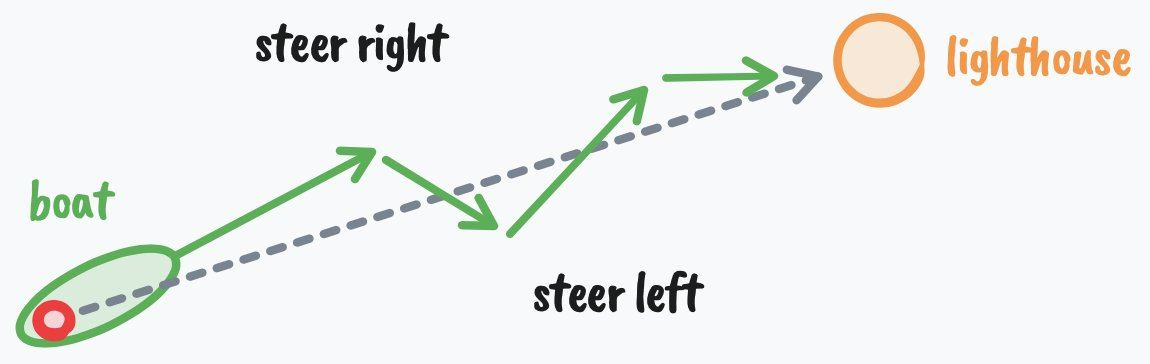
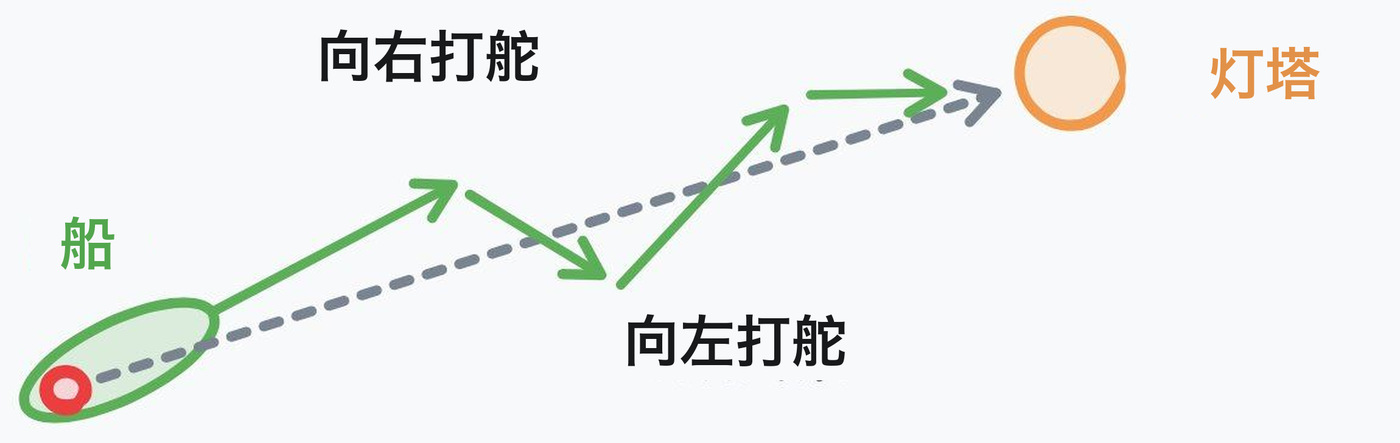
配图汉化第二批：10 张纯排版图重制为中文版（金字塔/四象限/流程图/折线图/蛛网/能力条/帖文/衬线对比图），同步 alt 文本与缓存版本

diff --git a/sw.js b/sw.js
@@ -1,4 +1,4 @@
-const V='dk-book-20261121-v3';const F=["notes-core.js", "notes-ui.js", "notes.css", "audio-manifest.json", "audio.js", "a/01.html", "a/02.html", "a/03.html", "a/04.html", "a/05.html", "a/06.html", "a/07.html", "a/08.html", "a/09.html", "a/10.html", "a/11.html", "a/12.html", "a/13.html", "a/14.html", "a/15.html", "a/16.html", "a/17.html", "a/18.html", "a/19.html", "a/20.html", "a/21.html", "a/22.html", "a/23.html", "a/n01.html", "a/n02.html", "a/n03.html", "a/n12.html", "a/n11.html", "a/n10.html", "a/n09.html", "a/n08.html", "a/n07.html", "a/n06.html", "a/n05.html", "a/n04.html", "app.js", "reading-layout.js", "fonts/NotoSerifSC-Bold.woff2", "fonts/NotoSerifSC-Regular.woff2", "fonts/fonts.css", "glossary.html", "img/01_1.jpg", "img/01_2.jpg", "img/01_3.jpg", "img/01_5.jpg", "img/01_cover.jpg", "img/02_1.jpg", "img/02_2.jpg", "img/02_3.jpg", "img/02_4.jpg", "img/02_cover.jpg", "img/03_1.jpg", "img/03_2.jpg", "img/03_3.jpg", "img/03_4.jpg", "img/03_cover.jpg", "img/04_cover.jpg", "img/05_1.jpg", "img/05_2.jpg", "img/05_3.jpg", "img/05_cover.jpg", "img/06_1.jpg", "img/06_2.jpg", "img/06_cover.jpg", "img/07_1.jpg", "img/07_2.jpg", "img/07_3.jpg", "img/07_cover.jpg", "img/08_1.jpg", "img/08_2.jpg", "img/08_3.jpg", "img/08_4.jpg", "img/08_5.jpg", "img/08_6.jpg", "img/08_7.jpg", "img/08_cover.jpg", "img/09_cover.jpg", "img/10_cover.jpg", "img/11_cover.jpg", "img/12_1.jpg", "img/12_2.jpg", "img/12_3.jpg", "img/12_4.jpg", "img/12_5.jpg", "img/12_cover.jpg", "img/13_1.jpg", "img/13_2.jpg", "img/13_3.jpg", "img/13_4.jpg", "img/13_cover.jpg", "img/14_1.jpg", "img/14_2.jpg", "img/14_3.jpg", "img/14_cover.jpg", "img/15_1.jpg", "img/15_2.jpg", "img/15_3.jpg", "img/15_4.jpg", "img/15_cover.jpg", "img/16_1.jpg", "img/16_cover.jpg", "img/17_cover.jpg", "img/18_1.jpg", "img/18_2.jpg", "img/18_cover.jpg", "img/19_cover.jpg", "img/20_1.jpg", "img/20_2.jpg", "img/20_cover.jpg", "img/21_1.jpg", "img/21_2.jpg", "img/21_3.jpg", "img/21_cover.jpg", "img/22_cover.jpg", "img/23_1.jpg", "img/23_2.jpg", "img/23_3.jpg", "img/23_cover.jpg", "img/n01_cover.jpg", "img/n02_cover.jpg", "img/n03_cover.jpg", "img/n12_cover.jpg", "img/n11_cover.jpg", "img/n10_cover.jpg", "img/n09_cover.jpg", "img/n08_cover.jpg", "img/n07_cover.jpg", "img/n06_cover.jpg", "img/n05_cover.jpg", "img/n04_cover.jpg", "index.html", "manifest.json", "meta.js", "naval-posts.html", "naval-posts-2025.html", "notes.html", "posts.html", "style.css"];
+const V='dk-book-20261121-v4';const F=["notes-core.js", "notes-ui.js", "notes.css", "audio-manifest.json", "audio.js", "a/01.html", "a/02.html", "a/03.html", "a/04.html", "a/05.html", "a/06.html", "a/07.html", "a/08.html", "a/09.html", "a/10.html", "a/11.html", "a/12.html", "a/13.html", "a/14.html", "a/15.html", "a/16.html", "a/17.html", "a/18.html", "a/19.html", "a/20.html", "a/21.html", "a/22.html", "a/23.html", "a/n01.html", "a/n02.html", "a/n03.html", "a/n12.html", "a/n11.html", "a/n10.html", "a/n09.html", "a/n08.html", "a/n07.html", "a/n06.html", "a/n05.html", "a/n04.html", "app.js", "reading-layout.js", "fonts/NotoSerifSC-Bold.woff2", "fonts/NotoSerifSC-Regular.woff2", "fonts/fonts.css", "glossary.html", "img/01_1.jpg", "img/01_2.jpg", "img/01_3.jpg", "img/01_5.jpg", "img/01_cover.jpg", "img/02_1.jpg", "img/02_2.jpg", "img/02_3.jpg", "img/02_4.jpg", "img/02_cover.jpg", "img/03_1.jpg", "img/03_2.jpg", "img/03_3.jpg", "img/03_4.jpg", "img/03_cover.jpg", "img/04_cover.jpg", "img/05_1.jpg", "img/05_2.jpg", "img/05_3.jpg", "img/05_cover.jpg", "img/06_1.jpg", "img/06_2.jpg", "img/06_cover.jpg", "img/07_1.jpg", "img/07_2.jpg", "img/07_3.jpg", "img/07_cover.jpg", "img/08_1.jpg", "img/08_2.jpg", "img/08_3.jpg", "img/08_4.jpg", "img/08_5.jpg", "img/08_6.jpg", "img/08_7.jpg", "img/08_cover.jpg", "img/09_cover.jpg", "img/10_cover.jpg", "img/11_cover.jpg", "img/12_1.jpg", "img/12_2.jpg", "img/12_3.jpg", "img/12_4.jpg", "img/12_5.jpg", "img/12_cover.jpg", "img/13_1.jpg", "img/13_2.jpg", "img/13_3.jpg", "img/13_4.jpg", "img/13_cover.jpg", "img/14_1.jpg", "img/14_2.jpg", "img/14_3.jpg", "img/14_cover.jpg", "img/15_1.jpg", "img/15_2.jpg", "img/15_3.jpg", "img/15_4.jpg", "img/15_cover.jpg", "img/16_1.jpg", "img/16_cover.jpg", "img/17_cover.jpg", "img/18_1.jpg", "img/18_2.jpg", "img/18_cover.jpg", "img/19_cover.jpg", "img/20_1.jpg", "img/20_2.jpg", "img/20_cover.jpg", "img/21_1.jpg", "img/21_2.jpg", "img/21_3.jpg", "img/21_cover.jpg", "img/22_cover.jpg", "img/23_1.jpg", "img/23_2.jpg", "img/23_3.jpg", "img/23_cover.jpg", "img/n01_cover.jpg", "img/n02_cover.jpg", "img/n03_cover.jpg", "img/n12_cover.jpg", "img/n11_cover.jpg", "img/n10_cover.jpg", "img/n09_cover.jpg", "img/n08_cover.jpg", "img/n07_cover.jpg", "img/n06_cover.jpg", "img/n05_cover.jpg", "img/n04_cover.jpg", "index.html", "manifest.json", "meta.js", "naval-posts.html", "naval-posts-2025.html", "notes.html", "posts.html", "style.css"];
 self.addEventListener('install',e=>{e.waitUntil(caches.open(V).then(c=>c.addAll(F)).then(()=>self.skipWaiting()))});
 self.addEventListener('activate',e=>{e.waitUntil(caches.keys().then(k=>Promise.all(k.filter(x=>x.startsWith('dk-')&&x!==V).map(x=>caches.delete(x)))).then(()=>self.clients.claim()))});
 self.addEventListener('fetch',e=>{if(e.request.method!=='GET')return;

diff --git a/a/18.html b/a/18.html
@@ -26,7 +26,7 @@
 <p data-b="14" id="p14">但我就是喜欢跟大多数人不一样。也许是性格缺陷，也许听着挺尬，但我乐在其中。过一种极少有人过的生活，本身就是一种创造性的挑战；而我发觉，成长（以及随之而来的意义／充实感）并不来自随大流。</p><div class="en-p" lang="en">But I like to be different from most people. Maybe it’s a character flaw. Maybe it sounds cringe. But I find joy in it. It’s a creative challenge to live a life that very few people live, but I’ve found that growth (and therefore meaning/fulfillment) does not come from following the herd.</div>
 <p data-b="15" id="p15">我确信两边都错了。</p><div class="en-p" lang="en">I’m convinced both sides are wrong.</div>
 <p data-b="16" id="p16">纯粹派拒绝现实的一整个部分（外在的进步），把它妖魔化，还认定它没法通过排定优先级、付出努力被健康地整合进来。</p><div class="en-p" lang="en">The Purists reject an entire portion of reality (external progress), demonize it, and assume that it can’t be healthily integrated with prioritization and effort.</div>
-<figure class="fig"><img alt="原文配图" loading="lazy" src="../img/18_1.jpg"/></figure>
+<figure class="fig"><img alt="个体与集体、心智与身体四象限：心智、身体、精神、职业" loading="lazy" src="../img/18_1.jpg"/></figure>
 <p data-b="17" id="p17">现实有 4 个象限。</p><div class="en-p" lang="en">There are 4 quadrants of reality.</div>
 <p data-b="18" id="p18">就像电子游戏里的技能树。</p><div class="en-p" lang="en">Like a skill tree in a video game.</div>
 <p data-b="19" id="p19">随着你积累经验、提升等级，你在每个象限里加点。它们彼此关联。你可以把钱加满，但如果心智、身体或精神一点没提升……钱也只能把你送到这儿。生活最丰硕的果实，留给那些接受挑战、在生活所有领域持续发展的人。</p><div class="en-p" lang="en">You put points in each as you gain experience and increase your level. They interconnect. You can try to max out your money, but if you haven’t improved your mind, body, or spirit at all... money can only go so far. The greatest fruits of life await those who accept the challenge of continuous development in all domains of life.</div>

diff --git a/a/05.html b/a/05.html
@@ -187,7 +187,7 @@ Use your brain in the morning with creation, output, and focus</div>
 <p data-b="146" id="p146">我倾向于把工作时段分成两种——生产力时段和创造力时段。两种完全不同的专注模式。一种狭窄，一种开放。</p><div class="en-p" lang="en">I tend to structure my work blocks in two ways - productivity blocks and creativity blocks. Two completely different modes of focus. One narrow one open.</div>
 <p data-b="147" id="p147">早上第一件事，我在第一个时段做优先级最高的任务，然后去散步，当作创造力时段（还记得大脑里的默认模式网络吧）。散步时，有时我读书，有时我思考，有时我试着解决一个问题。然后我把这个过程再重复几轮，直到当天的活干完。这成了一道"别再想工作"的硬截止点，让我的头脑去做它最擅长的事。</p><div class="en-p" lang="en">I work on the highest priority task for block one, first thing in the morning, then I go on a walk as a creativity block (remember the Default Mode Network in the brain). On that walk, sometimes I read, sometimes I think, other times I try to solve a problem. Then I repeat the process for a few more rounds until that day's work is done. That acts as a hard stop for thinking about work, allowing my mind to do what it does best.</div>
 <p data-b="148" id="p148">说完这些，下面就是开启一段朝目标高强度进步时期的流程。</p><div class="en-p" lang="en">With that out of the way, here's the protocol to launch into a season of intense progress toward your goals.</div>
-<figure class="fig"><img alt="原文配图" loading="lazy" src="../img/05_3.jpg"/></figure>
+<figure class="fig"><img alt="七层金字塔：愿景、反愿景、使命、目标、项目、学习、杠杆" loading="lazy" src="../img/05_3.jpg"/></figure>
 <p data-b="149" id="p149">1）愿景与反愿景（Vision &amp; Anti Vision）</p><div class="en-p" lang="en">1) Vision &amp; Anti Vision</div>
 <p data-b="150" id="p150">对 2 件事保持残酷的清醒：</p><div class="en-p" lang="en">Become brutally aware of 2 things:</div>
 <ul>

diff --git a/a/12.html b/a/12.html
@@ -138,7 +138,7 @@ Anyone could make a video game last week like anyone could make a video game 5 y
 <p data-b="102" id="p102">他们尝试。他们失败。他们没让失败说服自己“这不可能”，也没让失败把自己搞得晕头转向、转而沉溺于及时的快感。他们根据现实给的反馈，重新定方向。最终，他们从草垛里找到了那根针。</p><div class="en-p" lang="en">They tried. They failed. They didn’t let failure convince them into believing it was impossible, or disorient them to the point of indulging in quick pleasure. They set a new direction according to the feedback reality had given them. And eventually, they found the needle in the haystack.</div>
 <p data-b="103" id="p103">他们很聪明。</p><div class="en-p" lang="en">They were intelligent.</div>
 <p data-b="104" id="p104">因为一个智能系统的标志，就是会根据反馈修正航向。它们心里有一座灯塔，被吹离航线时也不会放弃。</p><div class="en-p" lang="en">Because the mark of an intelligent system is that they course correct according to feedback. They have a lighthouse, and they don’t quit when they get blown off course.</div>
-<figure class="fig"><img alt="原文配图" loading="lazy" src="../img/12_5.jpg"/></figure>
+<figure class="fig"><img alt="船朝灯塔航行：向右打舵、向左打舵的修正路径" loading="lazy" src="../img/12_5.jpg"/></figure>
 <p data-b="105" id="p105">我说创业的时候，指的就是这个。</p><div class="en-p" lang="en">When I talk about entrepreneurship, this is what I mean.</div>
 <p data-b="106" id="p106">我指的是进入你的自然状态。投入创造。去追求那些必须经历失败才能达成的未知目标。</p><div class="en-p" lang="en">I mean engaging in your natural state. Engaging in creation. Pursuing unknown goals that demand failure to achieve.</div>
 <p data-b="107" id="p107">这是大多数成功人士身上唯一的共同特质。</p><div class="en-p" lang="en">This is the singular trait of most successful individuals.</div>

diff --git a/a/14.html b/a/14.html
@@ -44,7 +44,7 @@
 <blockquote data-b="27" id="p27">
 <p>对大多数人来说，写作是最容易获得、最实用的杠杆形式。你可以学编程，但如果你无法吸引人们在乎你造的产品，就没人会用它或为它付钱。写作是解锁其他形式杠杆的杠杆。</p>
 </blockquote><div class="en-p" lang="en">For most people, writing is the most accessible and practical form of leverage. You can learn to code, but if you cannot attract people to care about the product you built, then nobody will use or pay for it. Writing is the leverage that unlocks other forms of leverage.</div>
-<figure class="fig"><img alt="原文配图" loading="lazy" src="../img/14_1.jpg"/></figure>
+<figure class="fig"><img alt="写作的八种应用：配文、消息、广告文案、社交帖、邮件、网页、视频脚本、文章" loading="lazy" src="../img/14_1.jpg"/></figure>
 <p data-b="28" id="p28">你在资产负债表上看不到数字资产，但它们占标普 500 价值的 90%。</p><div class="en-p" lang="en">You will not see digital assets on a balance sheet, but they represent 90% of the S&amp;P 500’s value.</div>
 <p data-b="29" id="p29">金·卡戴珊、泰勒·斯威夫特、瑞安·雷诺兹、野兽先生、埃隆·马斯克——都拥有庞大的受众和个人品牌。</p><div class="en-p" lang="en">Kim Kardashian, Taylor Swift, Ryan Reynolds, Mr. Beast, Elon Musk - all have massive audiences and personal brands.</div>
 <p data-b="30" id="p30">但你大概根本不想要他们那种程度的名气，这是好事，因为你不需要几百万粉丝也能让这件事跑通。集中发力 6–12 个月，你就会发现自己活得和现在截然不同。</p><div class="en-p" lang="en">But you probably don’t want anywhere near their level of fame, and that’s a great thing, because you don’t need millions of followers to make this work. With 6-12 months of focused effort, you can find yourself in a wildly different life than you are now.</div>

diff --git a/a/07.html b/a/07.html
@@ -59,7 +59,7 @@
 <p data-b="36" id="p36">线代表横向发展（宽度）。</p><div class="en-p" lang="en">Lines represent horizontal development (width).</div>
 <p data-b="37" id="p37">它们可以是任何东西：营销、天体物理、政治、社会动力学、宗教，等等。当你试图学习某个特定领域的知识，你就是在增加那条思考线的宽度。就像在电子游戏里攒经验值。</p><div class="en-p" lang="en">These can be anything. Marketing, astrophysics, politics, social dynamics, religion, etc. When you attempt to learn domain specific knowledge, you are increasing the width of that line of thinking. It's like gaining experience in a video game.</div>
 <p data-b="38" id="p38">（顺便说一句，如果你研究过肯·威尔伯（Ken Wilber），就能看出我在说什么——只是把它用在了思考上。）</p><div class="en-p" lang="en">(By the way, if you've studied Ken Wilber at all, you can see what I'm getting at here, just applied to thinking).</div>
-<figure class="fig"><img alt="原文配图" loading="lazy" src="../img/07_1.jpg"/></figure>
+<figure class="fig"><img alt="四层能力成长图：从新手到高手" loading="lazy" src="../img/07_1.jpg"/></figure>
 <p data-b="39" id="p39">思考的“层级”（levels），是你如何思考每一条线。</p><div class="en-p" lang="en">Levels of thinking are how you think about each line.</div>
 <p data-b="40" id="p40">层级代表纵向发展（深度）。</p><div class="en-p" lang="en">Levels represent vertical development (depth).</div>
 <p data-b="41" id="p41">观察认知发展在集体和个体身上、随时间如何演化，我们会注意到 5 种核心模式：</p><div class="en-p" lang="en">When we observe how cognitive development evolves in collectives and individuals over time, we can notice 5 core patterns:</div>

diff --git a/a/15.html b/a/15.html
@@ -31,7 +31,7 @@
 <p data-b="16" id="p16">我们还没正式开始公开大力推 Eden，但用户一直在大声说，它对创意人和创作者来说有多颠覆。</p><div class="en-p" lang="en">We haven't fully started blasting Eden in public yet, but our users have been vocal about how much of a game-changer it is for creatives and creators.</div>
 <details class="promo"><summary>作者产品推广（Eden）· 已折叠，点击展开</summary><p data-b="17" id="p17">在这里免费拿 4 个月使用权和创作者训练营（原价 499 美元）。https://eden.so/?utm_source=thedankoe&amp;utm_medium=social&amp;utm_campaign=social_evergreen&amp;utm_content=x_article</p><div class="en-p" lang="en">Get 4 months and the Creator Bootcamp free (normally $499) here.</div></details>
 <h2 data-b="18" id="s1">如何真正快速地学会任何东西</h2><div class="en-p" lang="en">How to actually learn anything fast</div>
-<figure class="fig"><img alt="原文配图" loading="lazy" src="../img/15_2.jpg"/></figure>
+<figure class="fig"><img alt="控制论反馈回路：参照信号、比较器、执行器、环境、传感器" loading="lazy" src="../img/15_2.jpg"/></figure>
 <p data-b="19" id="p19">大多数人根本不知道怎么学习。</p><div class="en-p" lang="en">Most people have no idea how to learn.</div>
 <p data-b="20" id="p20">因为大多数人根本不知道学习过程是什么。</p><div class="en-p" lang="en">Because most people have no idea what the learning process is.</div>
 <p data-b="21" id="p21">大多数学习之所以失败，是因为没有负反馈回路。</p><div class="en-p" lang="en">The reason most learning fails is that there is no negative feedback loop.</div>

diff --git a/a/13.html b/a/13.html
@@ -24,7 +24,7 @@
 <hr/>
 <p data-b="12" id="p12">温馨提醒：如果你想靠在社交媒体上写作来建立受众（吸引愿意支持你独立工作的人），训练营 5 天后开营。想参加就在这之前报名。https://letters.thedankoe.com/p/prompt-human-30-self-discovery-and?lli=1</p><div class="en-p" lang="en">Subtle reminder: If you want to build an audience via writing on social media (to attract people who support your independent work), the bootcamp starts in 5 days. Enroll before then here.</div>
 <h2 data-b="13" id="s1">人性的解剖（以及如何利用它）</h2><div class="en-p" lang="en">The Anatomy Of Human Nature (And How To Exploit It)</div>
-<figure class="fig"><img alt="原文配图" loading="lazy" src="../img/13_2.jpg"/></figure>
+<figure class="fig"><img alt="知识与智慧的对比，以及九个意识发展阶段" loading="lazy" src="../img/13_2.jpg"/></figure>
 <p data-b="14" id="p14">心智是一台故事引擎。</p><div class="en-p" lang="en">The mind is a story engine.</div>
 <p data-b="15" id="p15">这正是人类忍不住要去关注的东西。</p><div class="en-p" lang="en">That’s what humans can’t help but pay attention to.</div>
 <p data-b="16" id="p16">机器人胜在实用。就算车管所完全自动化、效率拉满，也没人在乎。哪个脑子正常的人会指望排上几个小时的队，就为换一张驾照照片？</p><div class="en-p" lang="en">Robots are useful for utility. Nobody would care if the DMV was completely automated and made efficient. Who in their right mind looks forward to standing in a long line for hours just to get a new picture for your driver’s license?</div>

diff --git a/a/03.html b/a/03.html
@@ -131,7 +131,7 @@
 <li data-b="93" id="p93">将其与目标进行比较。<div class="en-p" lang="en">Compare it to the goal.</div></li>
 <li data-b="94" id="p94">根据这个反馈，再次行动。<div class="en-p" lang="en">And act again based on that feedback.</div></li>
 </ul>
-<figure class="fig"><img alt="原文配图" loading="lazy" src="../img/03_4.jpg"/></figure>
+<figure class="fig"><img alt="船朝灯塔航行：向右打舵、向左打舵的修正路径" loading="lazy" src="../img/03_4.jpg"/></figure>
 <p data-b="95" id="p95">判断一个系统有多聪明，看它能不能反复迭代、在试错中坚持。</p><div class="en-p" lang="en">You can judge intelligence based on the system’s ability to iterate and persist with trial and error.</div>
 <p data-b="96" id="p96">一艘被风吹偏航线的船，会朝目的地修正航向。恒温器感知到温度变化，就自动开启。胰腺在血糖飙升后分泌胰岛素。</p><div class="en-p" lang="en">A ship blown off course that corrects toward its destination. A thermostat sensing a change in heat and turning on. The pancreas excreting insulin after blood glucose spikes.</div>
 <p data-b="97" id="p97">这跟从人生里得到你想要的东西有什么关系？</p><div class="en-p" lang="en">What does this have to do with getting what you want out of life?</div>

diff --git a/a/23.html b/a/23.html
@@ -39,7 +39,7 @@
 <p data-b="23" id="p23">高盛预测，创作者经济将接近翻倍：从 2023 年的 2500 亿美元，到 2027 年的 4800 亿美元。</p>
 <p data-b="24" id="p24">2025 年，创作者广告收入约 1850 亿美元——这是他们首次超过传统媒体的一年。</p>
 <p data-b="25" id="p25">美国品牌 2021 年在创作者身上花了 139 亿美元；IAB 预计 2026 年将达到 439 亿美元，大约五年内 3 倍。</p>
-<figure class="fig"><img alt="原文配图" loading="lazy" src="../img/23_1.jpg"/></figure>
+<figure class="fig"><img alt="美国品牌在创作者上的投放额：2021 至 2026 折线图" loading="lazy" src="../img/23_1.jpg"/></figure>
 <p data-b="26" id="p26">离谱。</p>
 <p data-b="27" id="p27">而作为一个既是创作者、也为创作者工作过、还付钱请创作者的人，我看到的报价已经疯了。大量风投的钱在空中飞：一条 Reel 或 YouTube 上 60 秒的时段能开出几千美元（而且十有八九根本没有结果）。</p>
 <p data-b="28" id="p28">重点是：注意力在社交媒体上。不再在广播、电视或新闻里。你想开任何生意——从聊兴趣的生活方式生意，到下一个独角兽创业公司——发内容几乎已是吸引付费受众的默认动作。</p>

diff --git a/a/01.html b/a/01.html
@@ -78,7 +78,7 @@
 
 
 <h2 data-b="54" id="s2">二、AI 对高能动性的人不是威胁</h2><div class="en-p" lang="en">II - AI is not a threat to the high agency.</div>
-<figure class="fig"><img alt="原文配图" loading="lazy" src="../img/01_5.jpg"/></figure>
+<figure class="fig"><img alt="Dan Koe 的 AI 使用流程：从选题到提示词复用" loading="lazy" src="../img/01_5.jpg"/></figure>
 <p data-b="55" id="p55">如今，实现任何目标需要的知识，你都能弄到。</p><div class="en-p" lang="en">You now have access to any knowledge you would ever need to achieve whatever you want.</div>
 <p data-b="56" id="p56">然而……人们拿着这些信息，还是什么也不做。</p><div class="en-p" lang="en">And yet... people still do nothing with that information.</div>
 <p data-b="57" id="p57">这是至关重要的一点。</p><div class="en-p" lang="en">That’s a crucial point.</div>

diff --git a/a/02.html b/a/02.html
@@ -112,7 +112,7 @@
 <p data-b="91" id="p91">但你实际上该如何开始搭建它？</p>
 <p data-b="92" id="p92">如何把这一切串起来？</p>
 <h2 data-b="93" id="s4">四、如何把你自己变成一门生意</h2>
-<figure class="fig"><img alt="原文配图" loading="lazy" src="../img/02_3.jpg"/></figure>
+<figure class="fig"><img alt="一人公司模型：目标、知识、流程，分别对应品牌、内容、产品" loading="lazy" src="../img/02_3.jpg"/></figure>
 <p data-b="94" id="p94">可惜的是，"创业"和"生意"已经成了令人反感的词，让人们觉得自己没资格走这条路，以至于当机会出现时，他们甚至注意不到。</p>
 <blockquote data-b="95" id="p95">
 <p>如果你曾用自己的兴趣帮助过别人，你就有资格创业。</p>
